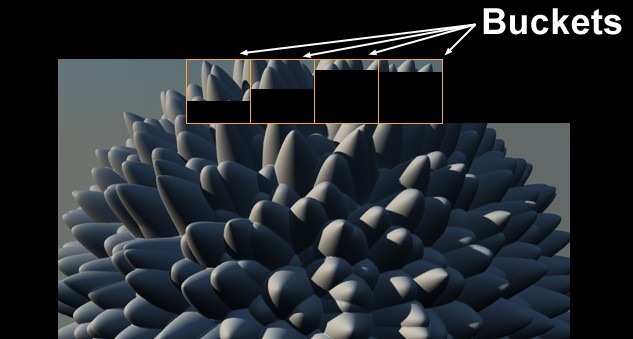
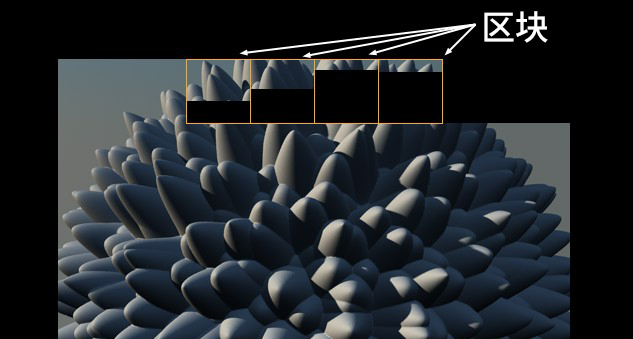
MAC

Changed region(s): [[0.7504, 0.0, 0.9905, 0.1475], [0.3002, 0.354, 0.3302, 0.3835]]

diff --git a/help/CN/html/DRENDERSETTINGS-RDATA_GROUP_OPTIONS.html b/help/CN/html/DRENDERSETTINGS-RDATA_GROUP_OPTIONS.html
@@ -28,7 +28,7 @@
 <div class="page_only_apps">             Function available in CINEMA 4D Prime, Visualize, Broadcast, Studio & BodyPaint 3D  </div>
 <span class="HL_atom"><a href="DRENDERSETTINGS.html">渲染设置</a> </span><p></p><a href="DRENDERSETTINGS-OBASELIST.html" target=""><span class="c4d_group_navi">基本</span></a> <a href="DRENDERSETTINGS-RDATA_GROUP_OUTPUT.html" target=""><span class="c4d_group_navi">输出</span></a> <a href="DRENDERSETTINGS-RDATA_GROUP_SAVE.html" target=""><span class="c4d_group_navi">保存</span></a> <a href="DRENDERSETTINGS-RDATA_GROUP_MULTIPASS.html" target=""><span class="c4d_group_navi">多通道</span></a> <a href="DRENDERSETTINGS-RDATA_GROUP_ANTIALIASING.html" target=""><span class="c4d_group_navi">抗锯齿</span></a> <a href="DRENDERSETTINGS-RDATA_GROUP_OVERRIDEMAT.html" target=""><span class="c4d_group_navi">材质覆写</span></a> <a href="DRENDERSETTINGS-RDATA_GROUP_OPTIONS.html" target=""><span class="c4d_group_navi_self">选项</span></a> <a href="DRENDERSETTINGS-RDATA_GROUP_STEREO.html" target=""><span class="c4d_group_navi">立体</span></a> <a href="DRENDERSETTINGS-RDATA_GROUP_NET.html" target=""><span class="c4d_group_navi">Team Render</span></a><!--NO_SEARCH_END--><p class="c4d_group"><span>选项</span></p><p></p>
 <p><a id="RDATA_OPTION_TRANSPARENCY" name="RDATA_OPTION_TRANSPARENCY"></a> <!--INDEX "8","透明","RDATA_OPTION_TRANSPARENCY"--><span class="c4d_id">透明</span></p>
-<p><div class="image_full" style="max-width:1281px"><img  src="../pics/020131.jpg"  ><span class="caption">激活透明、折射率、反射和投影选项的各种状态。如果所有四个选项都不启用，渲染的速度会非常快，虽然结果很不真实。</span></div></p>
+<p><div class="image_full" style="max-width:1281px"><img  src="../pics/020131.jpg"  ><span class="caption">激活透明、折射率、反射和投影选项的各种状态。如果所有四个选项都不启用，渲染的速度会非常快，但结果很不真实。</span></div></p>
 <p>这个选项定义了是否在计算中包含<span class="command">透明</span>或 <span class="command">Alpha</span> 通道。</p>
 <p><a id="RDATA_OPTION_REFRACTION" name="RDATA_OPTION_REFRACTION"></a> <!--INDEX "8","折射率","RDATA_OPTION_REFRACTION"--><span class="c4d_id">折射率</span></p>
 <p>定义了在渲染透明材质时是否包含折射率参数。像玻璃或水这种材质只有使用了折射看上去才会真实，但是渲染时间也会相应增加。如果场景中不包含折射光线的材质则不需要额外的渲染时间。</p>
@@ -48,13 +48,14 @@
 <p><span class="command">跟踪深度</span>决定了渲染器会穿过多少层透明对象（或使用 alpha 通道使其不可见的区域）。跟踪深度设置得越低，可以穿过的对象数量就越少。那些不能穿过的区域会被渲染为黑色。</p>
 <p>将<span class="command">跟踪深度</span>设为 <span class="command_value">1</span> 表示，对于一个像素，当光线碰到场景中的一个物体之后就会停止计算，因此不会看到透明度和 alpha 通道。</p>
 <p>将其设为 <span class="command_value">2</span> 表示，当光线碰到一个表面之后，会为透明度计算第二道光线。跟踪深度越高，进入场景中的光线就行进得越远，渲染的内容也更多。</p>
-<p><div class="image_full" style="max-width:640px"><img  src="../pics/003875.jpg"  ><span class="caption">结果中包含了透明度和 alpha 通道，并在追踪深度为 2、4、8 时进行渲染，这个参数最大可以设置为 500。</span></div></p>
+<p><div class="image_full" style="max-width:640px"><img  src="../pics/003875.jpg"  ><span class="caption">结果中包含了透明度和 alpha 通道，并在追踪深度为 2、4、8 时进行渲染，这个参数最大可以设置为 500。</p>
+<p></span></div></p>
 <p><a id="RDATA_REFLECTIONDEPTH" name="RDATA_REFLECTIONDEPTH"></a> <!--INDEX "8","反射深度","RDATA_REFLECTIONDEPTH"--><span class="c4d_id">反射深度</span> <span class="range">[1..200]</span></p>
 <p>当一道光线被发送到场景中时，它可以被反射面反射。在某些情况下，如两面对立放置的镜子，这道光线可能会被困在两面镜子之间永远反射，这时光线追踪就永远都无法完成渲染计算。为了防止这种情况，你可以设置最大的反射光线的最大值。</p>
 <p>你还可以使用<span class="command">反射深度</span>来限制渲染图片的时间。通常，只有第一次产生的反射是重要的，之后发声的反射对图像质量的作用很小，但是增加的渲染时间却相当长。</p>
 <p>反射深度设为 <span class="command">1</span> 表示，对于一个像素，当光线碰到场景中的一个物体后就会停止计算。因此不会看到反射。</p>
 <p>将其设为 <span class="command">2</span> 表示，当光线碰到一个表面之后，会为反射计算第二道光线。反射深度越高，进入场景中的光线就行进得越远，渲染的内容也更多。</p>
-<p><div class="image_full" style="max-width:640px"><img  src="../pics/003876.jpg"  ><span class="caption">结果中包含了反射对象，闭关在反射深度为 2、4、8 时进行渲染。</p>
+<p><div class="image_full" style="max-width:640px"><img  src="../pics/003876.jpg"  ><span class="caption">结果中包含了反射对象，并在反射深度为 2、4、8 时进行渲染。</p>
 <p></span></div></p>
 <p><a id="RDATA_SHADOWDEPTH" name="RDATA_SHADOWDEPTH"></a> <!--INDEX "8","投影深度","RDATA_SHADOWDEPTH"--><span class="c4d_id">投影深度</span> <span class="range">[0..500]</span></p>
 <p><span class="command">投影深度</span>与<span class="command">反射深度</span>类似，如果如果一个表面的点位于另一物体的阴影中，这个选项将使用额外的阴影光线来检查哪个阴影会从对象表面被投射，其投射方向为光源方向。</p>
@@ -106,7 +107,6 @@
 <p><a id="RDATA_SHOWHUD" name="RDATA_SHOWHUD"></a> <!--INDEX "8","渲染 HUD","RDATA_SHOWHUD"--><span class="c4d_id">渲染 HUD</span></p>
 <p><div class="image_full" style="max-width:732px"><img  src="../pics/003878.jpg"  ><span class="caption"></span></div></p>
 <p>启用这个选项可以在渲染的图像或动画中显示 HUD。这在要在渲染中显示如帧时间等信息时很有用。要了解如何使用 HUD，请查看 <a href="5593.html" target="">HUD</a>。</p>
-<p><a id="RDATA_RENDERDOODLE" name="RDATA_RENDERDOODLE"></a> <!--INDEX "8","渲染草绘","RDATA_RENDERDOODLE"--><span class="c4d_id">渲染草绘</span></p>
 <p><RELEASE_110 Doodles can also be integrated into renderings.></p>
 <p><a id="RDATA_RENDERDOODLE" name="RDATA_RENDERDOODLE"></a> <!--INDEX "8","渲染草绘","RDATA_RENDERDOODLE"--><span class="c4d_id">渲染草绘</span></p>
 <p>定义在渲染输出中是否包含<a href="32186.html" target="">草绘</a>功能。</p>

diff --git a/help/CN/html/DRENDERSETTINGS-RDATA_GROUP_STEREO.html b/help/CN/html/DRENDERSETTINGS-RDATA_GROUP_STEREO.html
@@ -29,7 +29,7 @@
 <span class="HL_atom"><a href="DRENDERSETTINGS.html">渲染设置</a> </span><p></p><a href="DRENDERSETTINGS-OBASELIST.html" target=""><span class="c4d_group_navi">基本</span></a> <a href="DRENDERSETTINGS-RDATA_GROUP_OUTPUT.html" target=""><span class="c4d_group_navi">输出</span></a> <a href="DRENDERSETTINGS-RDATA_GROUP_SAVE.html" target=""><span class="c4d_group_navi">保存</span></a> <a href="DRENDERSETTINGS-RDATA_GROUP_MULTIPASS.html" target=""><span class="c4d_group_navi">多通道</span></a> <a href="DRENDERSETTINGS-RDATA_GROUP_ANTIALIASING.html" target=""><span class="c4d_group_navi">抗锯齿</span></a> <a href="DRENDERSETTINGS-RDATA_GROUP_OVERRIDEMAT.html" target=""><span class="c4d_group_navi">材质覆写</span></a> <a href="DRENDERSETTINGS-RDATA_GROUP_OPTIONS.html" target=""><span class="c4d_group_navi">选项</span></a> <a href="DRENDERSETTINGS-RDATA_GROUP_STEREO.html" target=""><span class="c4d_group_navi_self">立体</span></a> <a href="DRENDERSETTINGS-RDATA_GROUP_NET.html" target=""><span class="c4d_group_navi">Team Render</span></a><!--NO_SEARCH_END--><p class="c4d_group"><span>立体</span></p><p></p>
 <p><PAGE_RELEASE_130 Stereoscopic render settings.></p>
 <p><div class="image_full" style="max-width:1012px"><img  src="../pics/031358.jpg"  ><span class="caption">如果透过 3D 立体眼镜（红-青）观看这副图像，你会感觉它几乎是在向飞来。</span></div></p>
-<p>多年来，在图象、电影和视频的 3D 显示方面已有数种尝试。最近——主要是因为大量 3D 电影的出现——一个新的 3D 繁荣期已经到来。在这些原因之中，主要是由于技术进步使 3D 图像和电影的颜色变得真实，同时消除了对人眼的疲劳感。大部分技术的共同点是它们基本记录了同一个场景的两幅图像，它们之间有轻微的透视偏移（即左右“眼”各自的图像）。这两幅图像在显示时，必须让左眼只接受到左图像，而右眼只接受到右图像（通过使用特制的眼镜来实现）。剩下的工作或多或少是自动的：大脑将这两个图像合并为一个图像。</p>
+<p>多年来，在图像、电影和视频的 3D 显示方面已有数种尝试。最近——主要是因为大量 3D 电影的出现——一个新的 3D 繁荣期已经到来。在这些原因之中，主要是由于技术进步使 3D 图像和电影的颜色变得真实，同时消除了对人眼的疲劳感。大部分技术的共同点是它们基本记录了同一个场景的两幅图像，它们之间有轻微的透视偏移（即左右“眼”各自的图像）。这两幅图像在显示时，必须让左眼只接受到左图像，而右眼只接受到右图像（通过使用特制的眼镜来实现）。剩下的工作或多或少是自动的：大脑将这两个图像合并为一个图像。</p>
 <p>当然，这也是 CINEMA 4D 擅长的。在场景中放置任意数量的摄像机来从所有可能角度进行渲染，我们已经让实现这一点变得容易。</p>
 <p><div class="image_full" style="max-width:1588px"><img  src="../pics/031359.jpg"  ><span class="caption">两幅不同透视的图像被合并来创造一副立体的图像。</span></div></p>
 <p>CINEMA 4D 使用了以下技术：</p>
